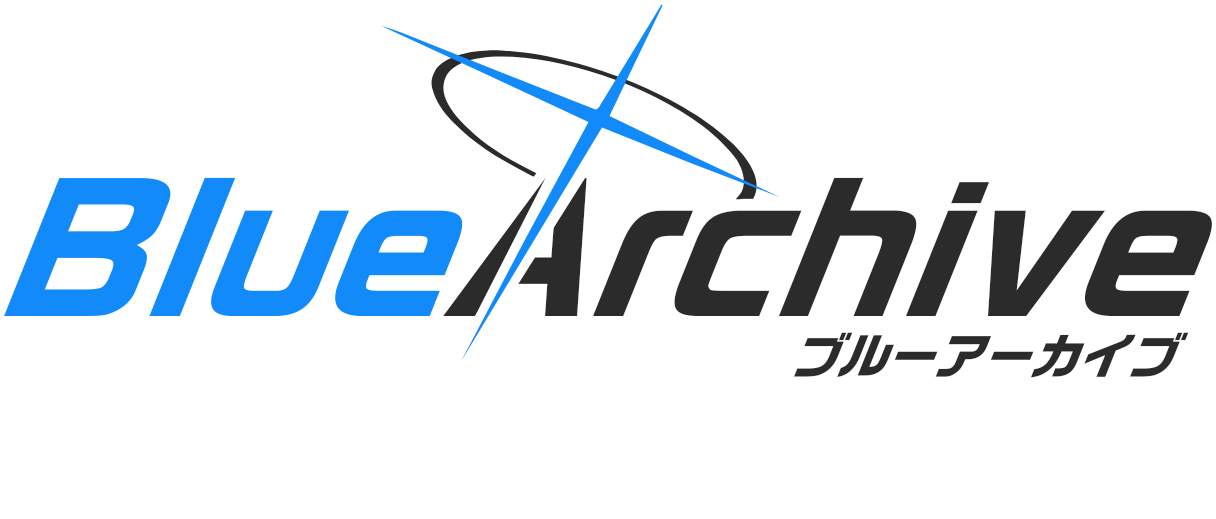
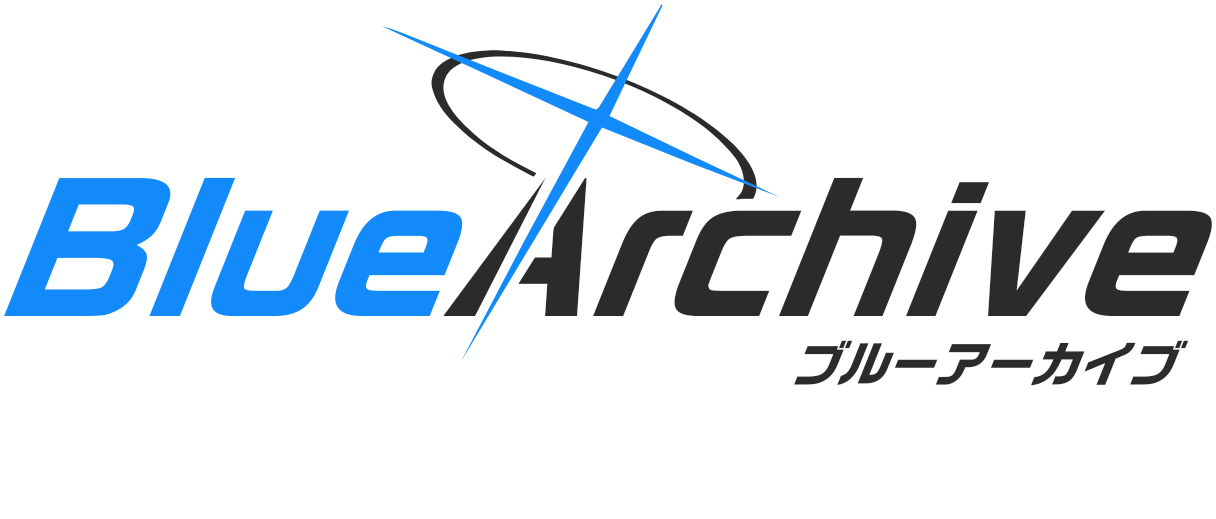
[fix]调整副标题默认纵向偏移为4像素

Changed region(s): [[0.6562, 0.6474, 1.0, 0.7399]]

diff --git a/test/web.test.ts b/test/web.test.ts
@@ -26,6 +26,7 @@ describe('WebUI Frontend Architecture & Logic Tests', () => {
     expect(DEFAULT_STATE.textColor).toBe('#2B2B2B');
     expect(DEFAULT_STATE.scale).toBe(2);
     expect(DEFAULT_STATE.subtitleFontSize).toBe(24);
+    expect(DEFAULT_STATE.subY).toBe(4);
     expect(DEFAULT_STATE.padding).toBe('2');
     expect(DEFAULT_STATE.format).toBe('png');
     expect(DEFAULT_STATE.transparent).toBe(false);
@@ -151,6 +152,15 @@ describe('WebUI Frontend Architecture & Logic Tests', () => {
     expect(absoluteUrl).toBe(
       'https://example.com/api/logo?left=%E8%94%9A%E8%93%9D&right=%E6%A1%A3%E6%A1%88&scale=2',
     );
+
+    const defaultSubtitleUrl = new URL(
+      `http://localhost${buildLogoUrl({ ...DEFAULT_STATE, subtitle: 'BlueArchive' })}`,
+    );
+    expect(defaultSubtitleUrl.searchParams.get('subY')).toBeNull();
+    const zeroSubtitleYUrl = new URL(
+      `http://localhost${buildLogoUrl({ ...DEFAULT_STATE, subtitle: 'BlueArchive', subY: 0 })}`,
+    );
+    expect(zeroSubtitleYUrl.searchParams.get('subY')).toBe('0');
   });
 
   it('i18n 词典应当在所有支持的语言中具备 100% 键覆盖率，且覆盖代码中所有引用的翻译键', () => {

diff --git a/src/renderer.ts b/src/renderer.ts
@@ -49,7 +49,7 @@ export interface RenderOptions {
   subtitle?: string; // 可选副标题（PR #12，如 "ブルーアーカイブ"，右下方对齐绘制）
   subtitleColor?: string; // 可选副标题颜色（默认跟随右侧次要文字颜色）
   subtitleOffsetX?: number; // 副标题 X 轴偏移量微调（像素，默认 0）
-  subtitleOffsetY?: number; // 副标题 Y 轴偏移量微调（像素，默认 0）
+  subtitleOffsetY?: number; // 副标题 Y 轴偏移量微调（像素，默认 4）
   subtitleFontSize?: number; // 副标题基础字号（默认 24，范围 12~96，随 scale 缩放）
   offsetX?: number;
   offsetY?: number;

diff --git a/web/src/components/ControlPanel.vue b/web/src/components/ControlPanel.vue
@@ -239,7 +239,7 @@ const handleColorPicker = (key: 'crossColor' | 'haloColor', e: Event) => {
               @click="resetField('subY')"
               :title="t('tip-reset-y')"
             >
-              {{ t('reset-0') }}
+              4 ↺
             </button>
           </label>
           <input
@@ -247,7 +247,7 @@ const handleColorPicker = (key: 'crossColor' | 'haloColor', e: Event) => {
             id="inputSubY"
             v-model.number="state.subY"
             class="input-text input-mono"
-            placeholder="0"
+            placeholder="4"
             @input="handleInput"
           >
         </div>

diff --git a/src/render/options.ts b/src/render/options.ts
@@ -77,7 +77,7 @@ export function normalizeRenderOptions(options: RenderOptions = {}): NormalizedR
     offsetX: finite(options.offsetX, DEFAULT_GRAPH_OFFSET.x),
     offsetY: finite(options.offsetY, DEFAULT_GRAPH_OFFSET.y),
     subtitleOffsetX: finite(options.subtitleOffsetX, 0),
-    subtitleOffsetY: finite(options.subtitleOffsetY, 0),
+    subtitleOffsetY: finite(options.subtitleOffsetY, 4),
     subtitleFontSize: Math.min(
       Math.max(finite(options.subtitleFontSize, BASE_SUBTITLE_FONT_SIZE), 12),
       96,

diff --git a/web/src/utils/url.ts b/web/src/utils/url.ts
@@ -51,7 +51,7 @@ export function buildLogoUrl(state: Readonly<LogoFormState>, origin = ''): strin
     set('subtitle', state.subtitle);
     if (state.subtitleColor) set('subtitleColor', cleanHex(state.subtitleColor));
     if (state.subX !== 0) set('subX', state.subX);
-    if (state.subY !== 0) set('subY', state.subY);
+    if (state.subY !== 4) set('subY', state.subY);
     if (state.subtitleFontSize !== 24) set('subtitleFontSize', state.subtitleFontSize);
   }
 

diff --git a/test/renderer.test.ts b/test/renderer.test.ts
@@ -264,6 +264,8 @@ describe('Renderer Core Unit Tests', () => {
   });
 
   it('应当支持副标题排版与渲染', () => {
+    expect(normalizeRenderOptions().subtitleOffsetY).toBe(4);
+    expect(normalizeRenderOptions({ subtitleOffsetY: 0 }).subtitleOffsetY).toBe(0);
     const withoutSub = renderLogo({ textL: 'Blue', textR: 'Archive' });
     const withSub = renderLogo({
       textL: 'Blue',

diff --git a/src/schema.ts b/src/schema.ts
@@ -103,8 +103,8 @@ export const LogoQuerySchema = t.Object({
 
   subtitleOffsetY: t.Optional(
     t.Numeric({
-      description: '副标题 Y 轴偏移量（像素，默认 0）',
-      examples: [0, 10, -10],
+      description: '副标题 Y 轴偏移量（像素，默认 4）',
+      examples: [4, 10, -10],
     }),
   ),
   subY: alias(

diff --git a/web/src/constants.ts b/web/src/constants.ts
@@ -6,7 +6,7 @@ export const DEFAULT_STATE: Readonly<LogoFormState> = Object.freeze({
   subtitle: '',
   subtitleColor: '',
   subX: 0,
-  subY: 0,
+  subY: 4,
   subtitleFontSize: 24,
   accent: '#128AFA',
   textColor: '#2B2B2B',
